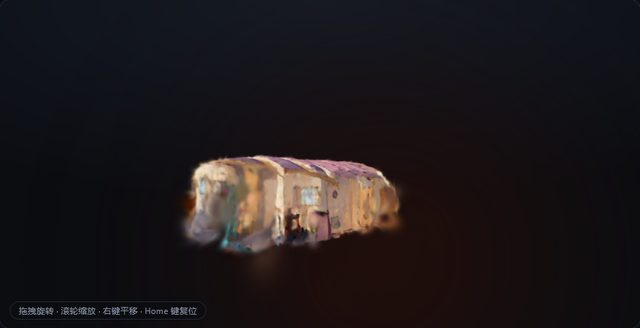
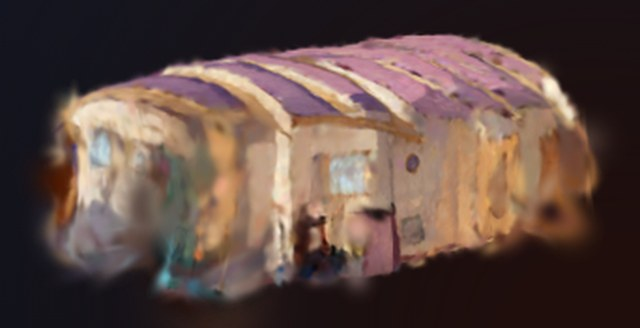
fix(thumbs): 4 张官方示例缩略图改为自绘（去掉烘焙进图的查看器提示条与角标）
上游随附的 4 张缩略图（valley/painted-bedroom/fireplace/robot-head）是把查看器界面
（左下角操作提示条 + 画布角标）一起截进去的截图，属资产瑕疵。改用 work/cdp-canvas-shot.mjs
（截图前注入 CSS 藏掉 .hud 与 .viewport 角标）重抓，再按主体包围盒裁成 640×328。
valley 另加默认机位 az270/el15（8 方位扫描实测内容最多），卡片简介补一句如实说明。

diff --git a/frontend/src/pages/ViewerPage.tsx b/frontend/src/pages/ViewerPage.tsx
@@ -30,6 +30,9 @@ export const EMPTY_STATS: ViewerStats = {
  */
 const SCENE_VIEW: Record<string, { az: number; el?: number }> = {
   'robot-head': { az: 180, el: 10 },
+  // valley（spark 官方示例，室外大场景）：8 个方位扫描实测，az=270 是内容最多的方向
+  // （同一视口下画布截图 179 KB，其余方位 79–96 KB），默认机位用它能让访客第一眼看到最多的内容。
+  valley: { az: 270, el: 15 },
   // shoe：资产绕 X 轴翻 180° 之后，网页坐标 = (180 − 拍摄方位角, −拍摄仰角)。
   // az 153 / el 14 对应实拍照片 038 的机位（鞋头朝左、鞋底朝下，覆盖最好的一侧）。
   // 原先的默认 (0, 12) 落在两台真实相机之间约 40° 的空档里，第一眼看到的是最弱的方向。
